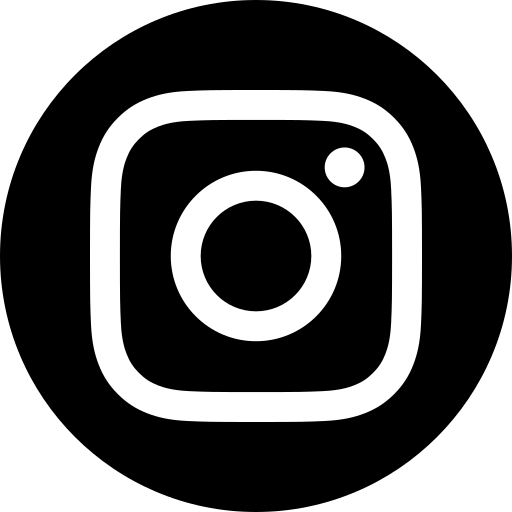
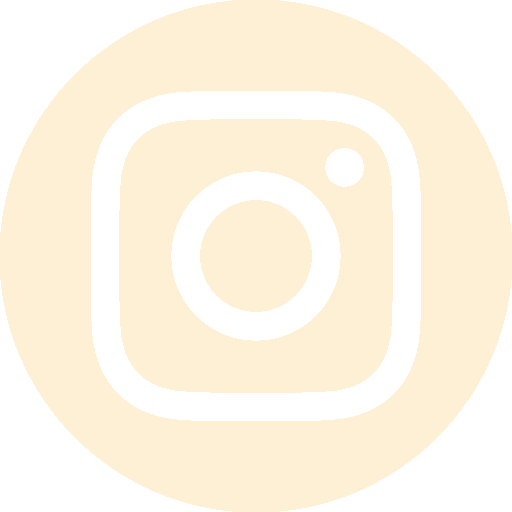
footer fini à 75%

diff --git a/html/footer.html b/html/footer.html
@@ -1,0 +1,92 @@
+<!DOCTYPE html>
+<html lang="fr-Fr">
+
+<head>
+    <meta charset="UTF-8">
+    <meta http-equiv="X-UA-Compatible" content="IE=edge">
+    <meta name="author" content="Naima-Sébastien-Lyphane">
+    <meta name="description" content="Création de jolis souvenirs">
+
+    <meta name="viewport" content="width=device-width, initial-scale=1.0">
+    <meta name="keywords" content="Couture Souvenirs Vetement">
+
+    <link rel="stylesheet" href="../style/footer.css">
+
+    <title>Les Bobines De Biches</title>
+</head>
+
+<body>
+    <header>
+
+    </header>
+
+Lorem ipsum dolor sit amet consectetur adipisicing elit. Autem animi, est tenetur, quisquam repellat hic quidem labore neque doloribus voluptatem voluptates, necessitatibus aliquam ducimus perferendis delectus aperiam! Cum facere dolor eaque illo ad, labore deserunt quaerat doloribus, incidunt illum laudantium, delectus consequuntur corrupti. Sit, optio sint alias reprehenderit dolores corrupti, quaerat odit debitis eius temporibus quos voluptate maxime consequatur totam consequuntur dolor, fuga at atque nostrum repellendus fugiat et facere ullam. Consectetur, officiis eaque. Perspiciatis reiciendis nam rerum harum voluptas quam. Atque ab rerum nam labore voluptatibus veritatis, odit facere voluptatum placeat quis commodi nesciunt. Amet facilis, laudantium delectus ipsa quasi ex, dolor dolorem aliquid porro eligendi adipisci asperiores enim doloribus? Placeat, eligendi quos natus maxime aspernatur dolor magnam fugiat veritatis alias quibusdam.
+Lorem ipsum, dolor sit amet consectetur adipisicing elit. Omnis itaque earum blanditiis cum quidem at doloremque hic repellendus. Animi, distinctio vitae, officiis pariatur explicabo est amet accusamus error architecto quisquam quae qui. Repellendus ad cum labore ipsum nisi assumenda, voluptatem deserunt ut quibusdam debitis, odit, adipisci soluta velit eum dolor eius est! Quaerat atque expedita tenetur accusamus distinctio tempora officiis sapiente, pariatur, accusantium iusto magnam. Culpa nostrum ipsa libero nulla cum nesciunt adipisci optio vitae quas, doloremque commodi numquam! Veritatis aliquam, quos sapiente nesciunt nostrum illum ab consequuntur aliquid dolor consequatur commodi mollitia nihil sint. Voluptate quod sapiente accusamus ipsa ipsum beatae ipsam praesentium eveniet. Adipisci aliquam fugit, nostrum repellendus provident magni minima cumque praesentium nam repudiandae consequuntur vitae ratione. Distinctio recusandae non, et iste in repellat, accusamus animi blanditiis fuga, officia quia exercitationem culpa sint eaque! Necessitatibus odit ea voluptatibus. Saepe illo vitae repellendus ut, ex officia ullam beatae adipisci voluptates quae at possimus quis voluptatibus obcaecati voluptatum suscipit voluptatem nostrum alias ipsam et qui reprehenderit. Corrupti quos mollitia doloremque consequuntur facere, quidem ratione? Distinctio pariatur sapiente quisquam consequuntur dolor libero magni officiis ipsam suscipit. Quos dolorum eaque repellat dolore. Consectetur illo atque dicta tempora a, alias eum voluptate, voluptates nostrum magnam enim accusamus laboriosam ratione doloremque aspernatur iure? Quas esse eius ipsam perferendis! Dicta quia dolores cum quis assumenda sit deleniti sed rem, facilis dolorum commodi molestias iusto rerum tempore maxime inventore culpa maiores, earum natus voluptatem, repudiandae exercitationem eveniet quaerat laudantium? Ipsum, illo doloribus cumque sapiente reprehenderit iusto voluptatibus possimus in harum laboriosam natus aspernatur repellat eum at alias, quia placeat nam assumenda est delectus ipsa! Similique aliquam laborum quasi velit ab saepe nisi. Tempore possimus expedita in fuga deleniti dolores autem molestiae quod odio aut pariatur dolor magnam asperiores deserunt sapiente ipsa nulla eos at laboriosam, quasi inventore facere illum, reprehenderit quas? Repellendus, iusto exercitationem. Optio harum, quam debitis doloribus itaque magni nesciunt laboriosam incidunt rem suscipit excepturi deleniti quis dolore, nihil ratione perferendis aliquid exercitationem accusamus est maxime facilis atque? Delectus eum magni vero neque. Maxime exercitationem fuga optio, sed quisquam laudantium pariatur maiores magni. Amet, laboriosam laudantium ipsam doloribus rerum nihil consectetur sit repellat beatae esse vero! Nostrum doloribus incidunt consequuntur quibusdam excepturi nesciunt quis. Nostrum assumenda doloribus repellat, rem inventore illo vel vitae deleniti commodi minima eum magni temporibus error cupiditate omnis molestiae exercitationem nesciunt perspiciatis possimus dolorum quisquam quaerat praesentium ex! Necessitatibus dolorum impedit officia, doloremque labore autem earum omnis et ex, doloribus eligendi rem ut incidunt dolores deserunt. Aliquid, autem facilis voluptas odit pariatur illum, quas repellat recusandae culpa, labore dolore commodi minus suscipit ipsam impedit. Ipsam eaque eligendi necessitatibus! Fugiat hic suscipit adipisci ea delectus est qui amet cumque sint autem minus accusantium excepturi dolore expedita ullam, illo officia aut praesentium numquam! Aspernatur dolores accusamus asperiores assumenda eveniet iusto, animi neque aut laboriosam rem nemo, similique quam autem libero deleniti quo impedit sunt possimus distinctio reiciendis sed voluptate vero aliquam ipsum? Ab excepturi reiciendis magnam, veniam commodi expedita repellat, sed veritatis nemo dolores cum quod dicta labore dolorem aliquam, nulla natus blanditiis! Corrupti ab ex porro ut, accusantium amet praesentium veniam voluptates architecto in, itaque modi, recusandae consectetur omnis sed deleniti pariatur. Nemo velit, ut nulla veritatis facere provident, adipisci magni eligendi error a animi, magnam reiciendis alias? Error vel ut aliquam voluptatum voluptates dolores corrupti ducimus voluptatibus dolor quas! Vitae tenetur porro facilis magni. Numquam impedit voluptatem perspiciatis in quos fuga? Dicta nobis est veniam tenetur velit nulla cupiditate, saepe atque voluptates molestias repellat ab enim at ratione ducimus possimus, aliquam reiciendis culpa iusto voluptas illo obcaecati quaerat tempore quidem. Tenetur neque autem explicabo qui, ut consequatur, eveniet in doloremque repellendus vel eligendi optio reprehenderit pariatur rerum perferendis quae animi quia nesciunt nostrum, ad molestias inventore praesentium excepturi! Aperiam neque blanditiis placeat sequi fugiat officiis eos ratione quisquam, debitis reprehenderit voluptate dolorum accusamus harum vel ullam quos perferendis eveniet iusto autem labore quae nisi corrupti? Deserunt, exercitationem iure placeat officiis, rem ipsum sed eos voluptatem veritatis, dignissimos tempore consequatur non nihil molestiae. Eos obcaecati sunt id nobis quasi eveniet, ipsam vel blanditiis nesciunt ut dicta aliquam expedita veniam explicabo placeat, sapiente numquam, ratione dolor minus molestias soluta. Temporibus reiciendis vitae adipisci omnis molestiae recusandae ratione dolor, officiis corrupti eos perferendis beatae quae, velit cumque dolore. Hic a rem voluptas, tempore in maiores dolore nihil minus repellendus alias aliquam enim error aperiam? Eum soluta asperiores hic ipsam inventore amet velit ea sequi libero nam repellat nostrum id quod quam quia saepe fugit nihil, ipsum expedita dolores laborum accusamus nesciunt non vero? Tenetur, quia sit. Molestiae ad magnam sint possimus fugit ducimus deleniti unde, voluptates quam similique temporibus dolores, quod illum tenetur dolorum! Expedita blanditiis ratione quidem, labore natus ex voluptatum reprehenderit quod nostrum, sed mollitia praesentium dicta alias ipsam harum vel officia, tempore minus veniam voluptatibus similique laboriosam assumenda? Maxime perferendis mollitia earum corrupti, autem, nesciunt quidem animi neque itaque, aut dolor assumenda necessitatibus fuga libero molestias velit tempora odit rem eius est? Sapiente beatae, voluptate minus eveniet labore temporibus tempore iure sint mollitia illo aspernatur reprehenderit voluptatibus accusamus soluta sit. Neque dolorum eveniet sapiente quas velit ratione, sequi, eligendi enim autem rerum quam asperiores suscipit consequatur. Dolorum cupiditate adipisci dignissimos iusto nisi, eius architecto minus, numquam, libero eos nulla quam veritatis. Assumenda, suscipit libero sequi similique voluptas amet iste, aut alias dolor enim atque dolorem rem dicta dolores distinctio voluptate recusandae minus nemo provident odio exercitationem debitis commodi at. Sunt expedita corrupti non itaque minima, aspernatur, excepturi cum aliquid eius, est ullam ipsum fugit repellat assumenda maxime fugiat quibusdam necessitatibus laudantium reprehenderit qui enim nesciunt eum. Cupiditate illo quis accusantium minus impedit rerum laboriosam rem, perferendis eligendi commodi quod praesentium molestiae est asperiores animi minima quae quaerat reiciendis? Doloribus doloremque vel facilis ad, sed velit qui quasi laborum amet dolorum error, minima assumenda. Expedita facere, reprehenderit optio natus iure consequatur perspiciatis culpa porro perferendis quas dolor incidunt repellendus voluptatem suscipit soluta magni possimus ratione sequi tempore exercitationem quaerat voluptas praesentium quod. Accusamus atque voluptate reprehenderit est aspernatur, vel iure fuga explicabo quod et, aliquid eum impedit? Ad ex maxime itaque veritatis sit iure maiores iusto suscipit sed libero, nam labore sequi nulla cupiditate vel cum officiis culpa, ipsam soluta deleniti autem dolorum. Vero deleniti aliquid, quibusdam, sint impedit accusantium quidem quasi tempore fugiat autem quas fugit nulla quos iusto sunt veniam explicabo saepe. Magnam cupiditate voluptates quam velit obcaecati eaque ullam, eligendi neque, magni praesentium blanditiis laboriosam sunt dignissimos quibusdam quas doloremque possimus, consectetur natus adipisci. Suscipit, possimus dolor fugit iste ea enim et ratione vero, iusto blanditiis quisquam sit. Aliquid numquam voluptate sint qui perspiciatis dolor enim quidem animi libero, consequatur, ipsa, consectetur est esse quo? Voluptates, amet eligendi consectetur deserunt ipsum aperiam dignissimos at accusamus corporis doloribus voluptas? Eligendi odio eaque voluptatem inventore voluptatum soluta doloribus pariatur, nemo rem veritatis id, ex quae dolor natus recusandae animi cupiditate ipsum aperiam reprehenderit nihil quas sapiente laudantium nobis! Ullam saepe maxime similique eos enim voluptatibus expedita, consectetur, quibusdam optio quisquam, iste nihil molestiae corporis deserunt atque consequatur aspernatur repudiandae nobis animi ad exercitationem? Tempore veritatis quaerat eligendi quibusdam quisquam ipsum libero iusto maxime iure sequi, delectus eum amet quod facilis accusantium obcaecati rerum, nesciunt deserunt unde voluptates. Corrupti magnam ratione rerum facere, alias sed possimus et deleniti ad aspernatur. Culpa beatae porro consequuntur dolorem molestias at amet laudantium! Laboriosam deserunt ullam quas officiis!
+
+
+
+
+    <footer class="footer_categorie">
+            
+        <div id="reseaux"  class="block_footer">
+            <div id="Suivez_moi">
+                <p>Suivez moi</p>
+            </div>
+
+            <div id="insta" class="rsx"> 
+                <a href="https://www.instagram.com/lesbobinesdebiche/?hl=fr"> <img
+                    src="../images/insta.png" alt="Suivez Nous" class="logo"></a>
+            </div>
+
+            <div id="fb" class="rsx">
+                <a href="https://www.facebook.com/creationmellemgx"> <img src="../images/fb.png" alt="Suivez Nous" class="logo"></a>
+            </div>
+        </div>
+
+        <div id="remise_produits" class="block_footer">
+
+            <div id="main_propre" class="information_livraison">
+                <div id="logo_livraison_main" class="block_logo"> 
+                    <img src="../images/livraison_main.png" alt="Livraison en main propre" class="logo"> 
+                </div>
+                <div id="livraison_main" class="livraison1"><p>Remise en main propre sur Lille</p></div>
+            </div>
+
+            <div id="livraison" class="information_livraison">
+                <div id="logo_livraison" class="block_logo"><img src="../images/livraison.png" alt="Livraison sur toute la France" class="logo"></div>
+                
+                <div id="livraison" class="livraison2"><p>Livraison possible en France</p></div>
+
+            </div>
+
+        </div>
+
+        <div id="information" class="block_footer">
+        
+            <div id="cgu_footer" class="cgu-mail">
+                <div id="logo_cgu" class="block_logo">
+                    <img src="../images/cgu.png" alt="Condition d'utilisation" class="logo">
+                </div>
+                <div id="cgu" >
+                    <p> <a href="cgu.html"> Condition d'utilsation</p></a>
+                </div>
+            </div>
+
+            <div id="mail_footer" class="cgu-mail">
+                <div id="logo_mail" class="block_logo">
+                    <img src="../images/mail.png" class="logo">
+                </div>
+                <div id="mail">
+                    <p> Lesbobinesdebiche@gmail.fr</p>
+                </div>
+            </div>
+           
+        
+            </div>
+        
+        </div>
+
+    </footer>
+</body>
+
+</html>

diff --git a/style/footer.css b/style/footer.css
@@ -1,0 +1,68 @@
+body {
+    margin: 0;
+    padding: 0;
+    background-color: #FFFFFF;
+}
+
+
+footer {
+    background-color: #70A0AF;
+    position:relative;
+    width:100%;
+}
+
+ .logo{
+    height: 27px;
+    width: 27px;
+    border-radius: 0px;
+    padding: 5px;
+}
+
+img {
+    width: 100%;
+    height: 100%;
+}
+
+
+.information_livraison, .footer_categorie , .cgu-mail{
+    display: flex;
+    flex-direction: row;
+    padding-left: 50px;
+
+}
+
+.rsx   {
+    display: inline;
+
+}
+
+p{
+    font-family :Impact, Haettenschweiler, 'Arial Narrow Bold', sans-serif
+}
+
+.block_footer , a{
+    text-align: center;
+    color: antiquewhite;
+}
+
+p{
+    font-family: Typo Round Light Demo;
+        font-size: 12px;
+        font-weight: 300;
+        line-height: 14px;
+        letter-spacing: 0em;
+        text-align: center;
+}
+
+#remise_produits {
+    border-right: solid;
+    padding-right: 5% ;
+}
+
+
+
+
+
+
+
+
